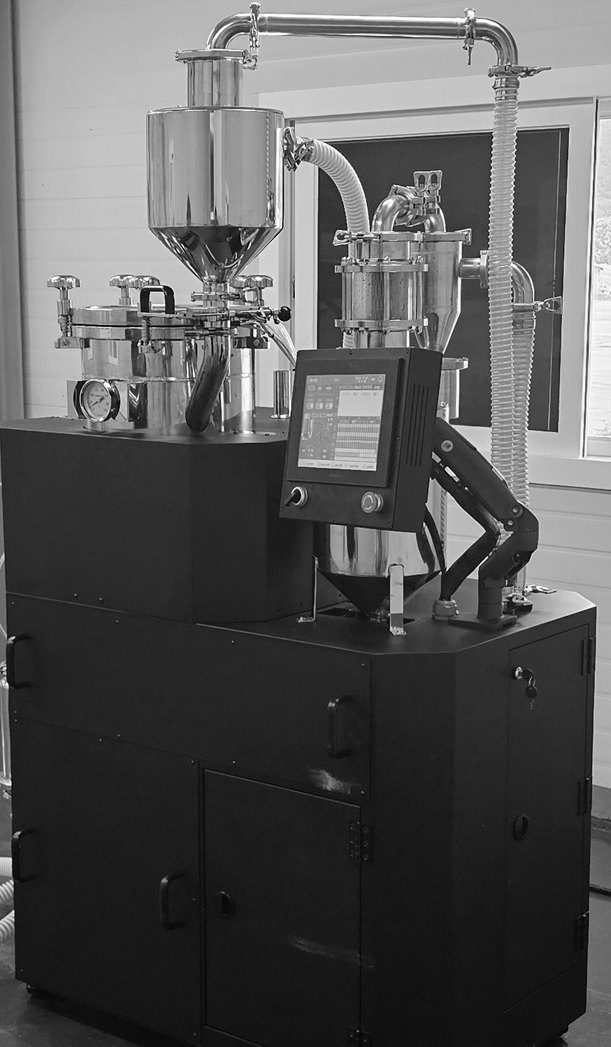
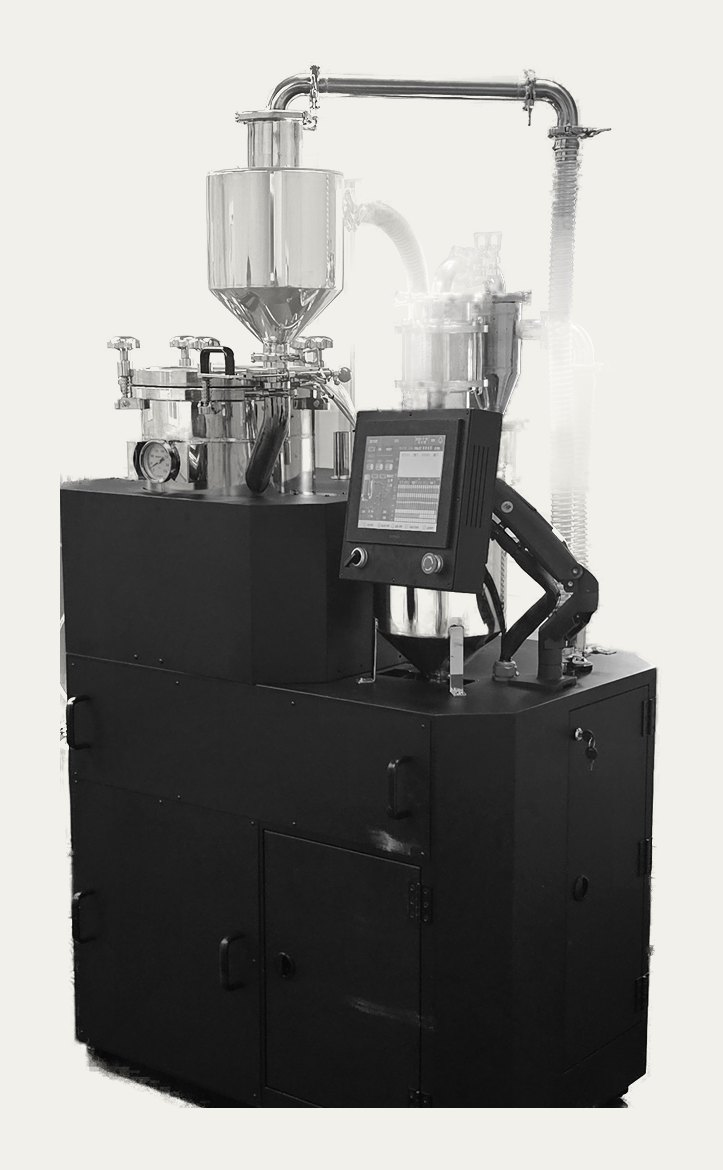
사진 비율 복원(height:auto 누락)·로스팅기/패키지 배경 제거 컷아웃(webp)·모바일 가독성(표 스택·타이포)·대표자명 삭제

diff --git a/index.html b/index.html
@@ -28,7 +28,7 @@
 <meta property="og:type" content="website">
 <link rel="canonical" href="https://welco-coffee.github.io/">
 <link rel="icon" href="assets/logo.png">
-<link rel="preload" as="image" href="assets/roaster.jpg" fetchpriority="high">
+<link rel="preload" as="image" href="assets/roaster.webp" type="image/webp" fetchpriority="high">
 <link rel="preconnect" href="https://fonts.googleapis.com">
 <link rel="preconnect" href="https://fonts.gstatic.com" crossorigin>
 <script type="application/ld+json">
@@ -74,7 +74,8 @@
     font-size:15.5px; line-height:1.9; word-break:keep-all; overflow-wrap:break-word;
     -webkit-font-smoothing:antialiased; -webkit-text-size-adjust:100%;
   }
-  img{max-width:100%; display:block;}
+  /* width/height 속성을 CLS 방지용으로 달았으므로 height:auto가 없으면 사진이 늘어난다 */
+  img{max-width:100%; height:auto; display:block;}
   a{color:inherit;}
   p{margin:0 0 1.15em;}
   h1,h2,h3,h4{font-family:var(--serif); font-weight:600; letter-spacing:-.022em; margin:0; word-break:keep-all;}
@@ -134,17 +135,23 @@
   .srow .v{font-size:14.5px; color:var(--ink2);}
   .srow .n{font-family:var(--mono); font-size:18px; font-weight:600; letter-spacing:-.01em; white-space:nowrap;}
   .srow .n.sg{color:var(--sage);}
-  .hero .R{position:relative; background:var(--ink); overflow:hidden;}
-  .hero .R img{width:100%; height:100%; object-fit:cover; object-position:center 30%;
-               filter:grayscale(1) contrast(1.12) brightness(.88);}
-  .hero .R figcaption{position:absolute; left:32px; right:32px; bottom:30px; display:flex;
-        justify-content:space-between; gap:14px; color:#f0ece3; font-family:var(--mono);
+  /* 로스팅기는 배경을 지운 컷아웃이라 종이 위에 놓는다 */
+  .hero .R{position:relative; background:var(--paper); border-left:1px solid var(--rule2);
+           overflow:hidden; display:flex; align-items:center; justify-content:center;
+           padding:44px 40px 74px;}
+  .hero .R picture{display:contents;}
+  .hero .R img{width:auto; max-width:100%; height:100%; max-height:100%; object-fit:contain;
+               filter:grayscale(1) contrast(1.04);}
+  .hero .R figcaption{position:absolute; left:40px; right:40px; bottom:28px; display:flex;
+        justify-content:space-between; gap:14px; color:var(--ink3); font-family:var(--mono);
         font-size:10.5px; letter-spacing:.13em; text-transform:uppercase;
-        border-top:1px solid rgba(240,236,227,.42); padding-top:11px;}
+        border-top:1px solid var(--rule2); padding-top:11px;}
   @media(max-width:980px){
     .hero{grid-template-columns:1fr; min-height:0;}
     .hero .L{max-width:none; margin:0 auto; width:100%; max-width:1180px; padding-top:44px;}
-    .hero .R{height:340px; order:-1;}
+    .hero .R{height:430px; order:-1; border-left:0; border-bottom:1px solid var(--rule2);
+             padding:24px 20px 56px;}
+    .hero .R figcaption{left:20px; right:20px; bottom:18px; font-size:9.5px; letter-spacing:.1em;}
     .hero h1{font-size:38px; margin-top:34px;}
   }
 
@@ -263,10 +270,57 @@
   footer{background:var(--ink); color:#8d8579; padding:34px 0 56px; border-top:1px solid #332f28;}
   footer .grid{display:grid; grid-template-columns:1fr 1fr; gap:28px;}
   footer b{color:#cdc7ba; font-weight:500;}
-  footer .disc{font-family:var(--mono); font-size:10.5px; letter-spacing:.03em; line-height:2;
-               color:#736c60; grid-column:1 / -1; border-top:1px solid #332f28; padding-top:18px; margin-top:8px;}
+  footer .disc{font-size:12px; line-height:1.95;
+               color:#8a8276; grid-column:1 / -1; border-top:1px solid #332f28; padding-top:18px; margin-top:8px;}
   footer a{color:#a8a094;}
   @media(max-width:820px){ footer .grid{grid-template-columns:1fr;} }
+
+  /* ══ 모바일 가독성 ═══════════════════════════════════════════
+     핵심은 표다. 좁은 화면에서 132px 항목명 칸이 본문을 짓눌러
+     서너 글자마다 줄이 바뀐다. 모바일에서는 항목명을 위로 올리고
+     내용을 폭 전체로 편다. */
+  @media(max-width:700px){
+    :root{ --pad:20px; }
+    body{ font-size:16px; line-height:1.85; }
+    .sect{ padding:58px 0; }
+    h2.t{ font-size:25px; line-height:1.42; margin-bottom:16px; }
+    h3{ font-size:19px !important; }
+    .lede{ font-size:16.5px; line-height:1.85; }
+    .head{ margin-bottom:22px; }
+
+    /* 설명형 표만 쌓는다. 단가표(.price)는 숫자를 나란히 봐야 하므로 표 형태 유지 */
+    table.tbl:not(.price), table.tbl:not(.price) tbody, table.tbl:not(.price) tr,
+    table.tbl:not(.price) th, table.tbl:not(.price) td{ display:block; width:auto; }
+    table.tbl:not(.price){ border-top:1px solid var(--ink); }
+    table.tbl:not(.price) tr{ border-bottom:1px solid var(--rule); padding:14px 0; }
+    table.tbl:not(.price) th{ border:0; padding:0 0 5px; font-size:12.5px; color:var(--ink3); white-space:normal; }
+    table.tbl:not(.price) td{ border:0; padding:0; font-size:15.5px; line-height:1.8; color:var(--ink); }
+    .plate table.tbl:not(.price) tr{ border-bottom-color:#332f28; }
+    .plate table.tbl:not(.price) td{ color:#d5cfc2; }
+
+    table.price th, table.price td{ padding:13px 8px 13px 0; font-size:14.5px; }
+    table.price th:first-child, table.price td:first-child{ padding-left:0; }
+    table.price td:nth-child(2){ font-size:17px; font-weight:500; }
+
+    .duo > div{ padding:26px 22px 28px; }
+    .duo li{ font-size:15px; }
+    .warn{ padding:22px 20px; }
+    .warn p{ font-size:15px; }
+    .steps div{ padding:20px 18px 22px; }
+    .steps p{ font-size:14.5px; }
+    .faq summary{ font-size:17px; }
+    .faq p{ font-size:15.5px; margin-left:0; }
+    .note{ font-size:13.5px; line-height:2; }
+    .proof > div{ padding:22px 20px 24px; }
+    .btn{ padding:14px 20px; font-size:15px; }
+    .cta-row{ gap:8px; }
+    .srow{ grid-template-columns:minmax(0,1fr) auto; gap:6px 12px; padding:14px 0; }
+    .srow .mono{ grid-column:1 / -1; }
+    .srow .n{ font-size:17px; }
+    .tel, .mail{ font-size:19px; }
+    .contact > div{ padding:26px 22px 28px; }
+    .ol li{ font-size:15px; }
+  }
 </style>
 </head>
 <body>
@@ -315,8 +369,11 @@
   </div>
 
   <figure class="R">
-    <img src="assets/roaster.jpg" alt="웰코 진공 질소 저온 로스팅 설비"
-         width="611" height="1047" fetchpriority="high" decoding="async">
+    <picture>
+      <source srcset="assets/roaster.webp" type="image/webp">
+      <img src="assets/roaster.jpg" alt="웰코 진공 질소 저온 로스팅 설비"
+           width="603" height="1046" fetchpriority="high" decoding="async">
+    </picture>
     <figcaption><span>Vacuum Nitrogen Roaster</span><span>Goryeong, Korea</span></figcaption>
   </figure>
 </div>
@@ -574,8 +631,11 @@
       </div>
 
       <figure class="shot">
-        <img src="assets/package.jpg" alt="WELCO 케냐 AA 200g 파우치"
-             width="820" height="1093" loading="lazy" decoding="async">
+        <picture>
+          <source srcset="assets/package.webp" type="image/webp">
+          <img src="assets/package.jpg" alt="WELCO 케냐 AA 200g 파우치"
+               width="700" height="1112" loading="lazy" decoding="async">
+        </picture>
         <figcaption>웰코 케냐 AA 200g 완제품<br>위탁생산에서는 이 자리에 귀사 라벨이 들어갑니다</figcaption>
       </figure>
     </div>
@@ -640,7 +700,7 @@
 
     <div class="contact">
       <div>
-        <span class="label">주식회사 디올 · 웰코 &nbsp;|&nbsp; 이승훈</span>
+        <span class="label">주식회사 디올 · 웰코</span>
         <a class="mail" href="mailto:leeseunghun815@gmail.com">leeseunghun815@gmail.com</a>
         <div style="display:flex; gap:10px; flex-wrap:wrap;">
           <a class="btn btn-fill" href="mailto:leeseunghun815@gmail.com?subject=%5BWELCO%5D%20%EC%9C%84%ED%83%81%EC%83%9D%EC%82%B0%C2%B7%EB%8F%84%EB%A7%A4%20%EB%AC%B8%EC%9D%98&amp;body=%E2%91%A0%20%ED%9A%8C%EC%82%AC%EB%AA%85(%EB%98%90%EB%8A%94%20%EB%A7%A4%EC%9E%A5%EB%AA%85)%3A%0A%E2%91%A1%20%EC%97%B0%EB%9D%BD%EC%B2%98%3A%0A%E2%91%A2%20%ED%95%84%EC%9A%94%ED%95%9C%20%EB%AC%BC%EB%9F%89%C2%B7%ED%8F%AC%EC%9E%A5%20%EB%8B%A8%EC%9C%84%3A%0A%E2%91%A3%20%EC%9C%84%ED%83%81%EC%83%9D%EC%82%B0%20%2F%20%EB%8F%84%EB%A7%A4%20%EB%82%A9%ED%92%88%3A%0A%E2%91%A4%20%EC%83%98%ED%94%84%20%EB%B0%9B%EC%9C%BC%EC%8B%A4%20%EC%A3%BC%EC%86%8C%3A%0A">이메일 보내기</a>
@@ -672,7 +732,7 @@
 <footer>
   <div class="wrap grid">
     <div>
-      <p style="margin:0 0 6px;"><b>주식회사 디올</b> (브랜드 WELCO) · 대표 이승훈</p>
+      <p style="margin:0 0 6px;"><b>주식회사 디올</b> (브랜드 WELCO)</p>
       <p style="margin:0; font-size:14px;">
         경상북도 고령군 개진면 치산길 2<br>
         사업자등록번호 815-87-02736 · 식품제조가공업 등록업소
